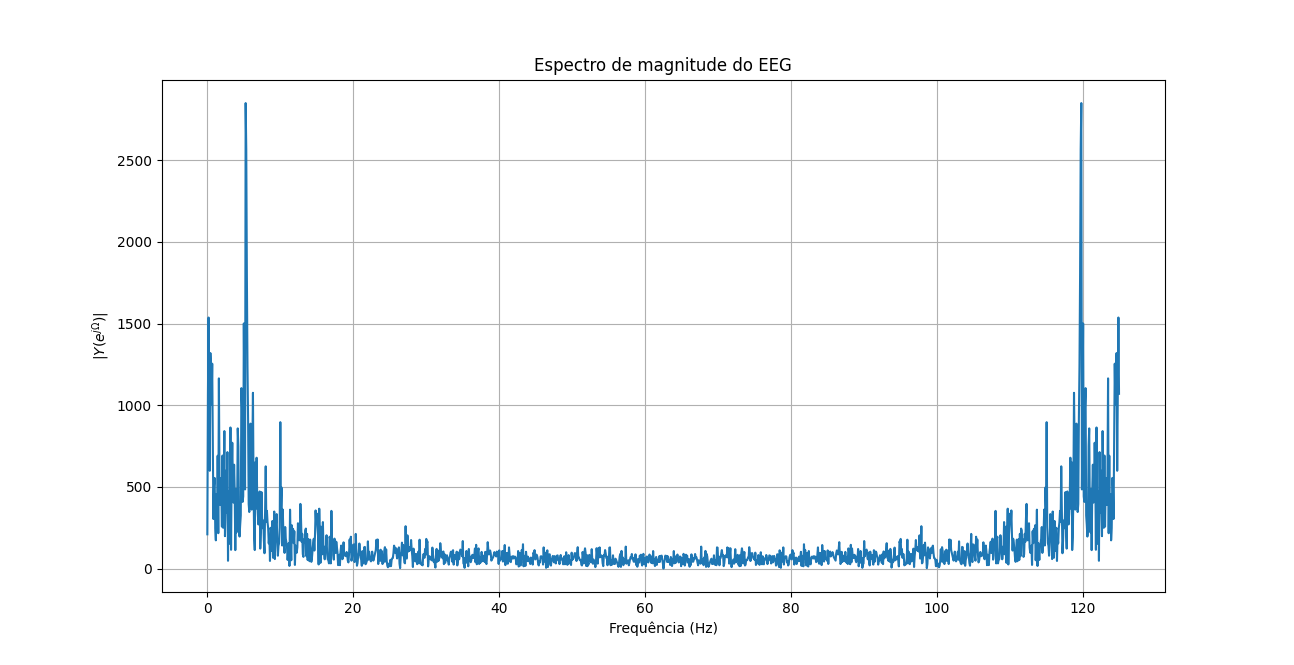
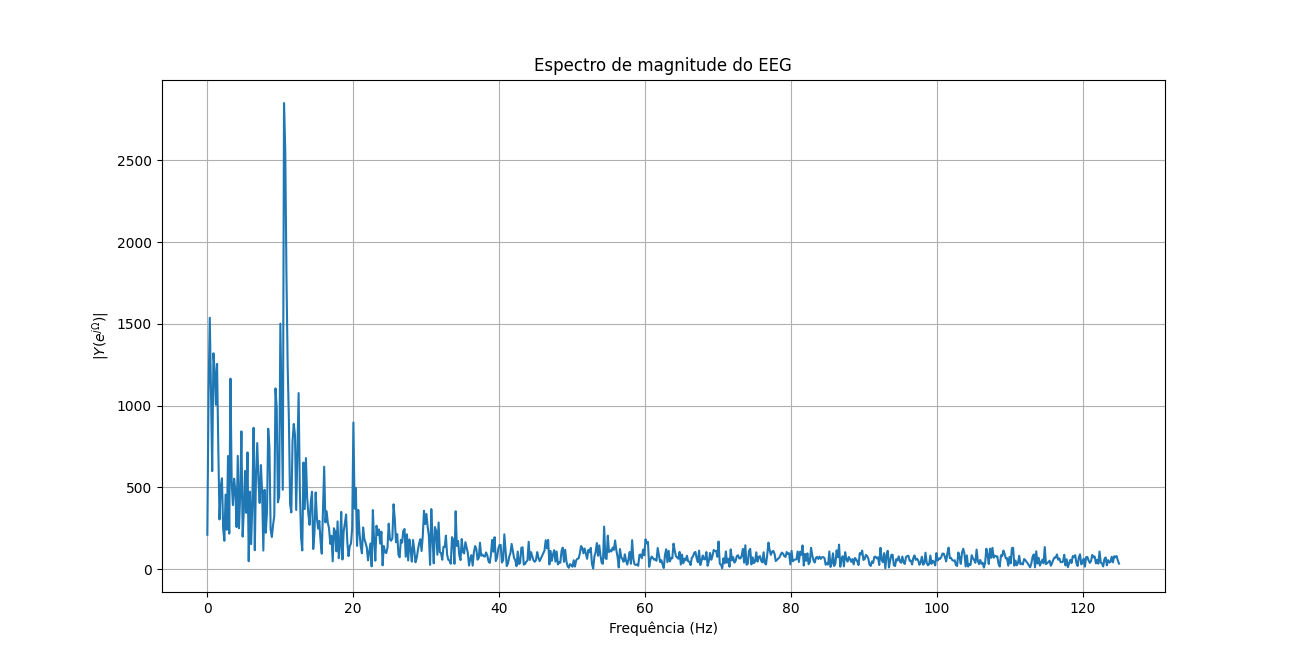
qG novamente

Changed region(s): [[0.1546, 0.2105, 0.8655, 0.8722], [0.0927, 0.7218, 0.1236, 0.7519], [0.0927, 0.3609, 0.1236, 0.391]]

diff --git a/efc4/questaoG.py b/efc4/questaoG.py
@@ -6,10 +6,10 @@ with open("./EEG.txt", "r") as f:
 
 #time = np.linspace(0,len(eeg)/250, len(eeg))
 
-freq = np.linspace(0,125,len(eeg))
+freq = np.linspace(0,125,int(len(eeg)/2))
 
 Y = abs(np.fft.fft(np.array(eeg)))
-print(len(Y))
+
 print("Índice 'k' do maior módulo:", Y[:int(len(Y)/2)].argmax())
 print("Valor da transformada nesse ponto:", Y[:int(len(Y)/2)].max())
 print("Frequência associada ao índice:", freq[Y[:int(len(Y)/2)].argmax()])
@@ -17,7 +17,7 @@ print("Frequência associada ao índice:", freq[Y[:int(len(Y)/2)].argmax()])
 plt.figure()
 
 #plt.plot(time, eeg)
-plt.plot(freq, Y)
+plt.plot(freq, Y[:int(len(Y)/2)])
 
 #plt.title("Eletrocardiograma")
 plt.title("Espectro de magnitude do EEG")
